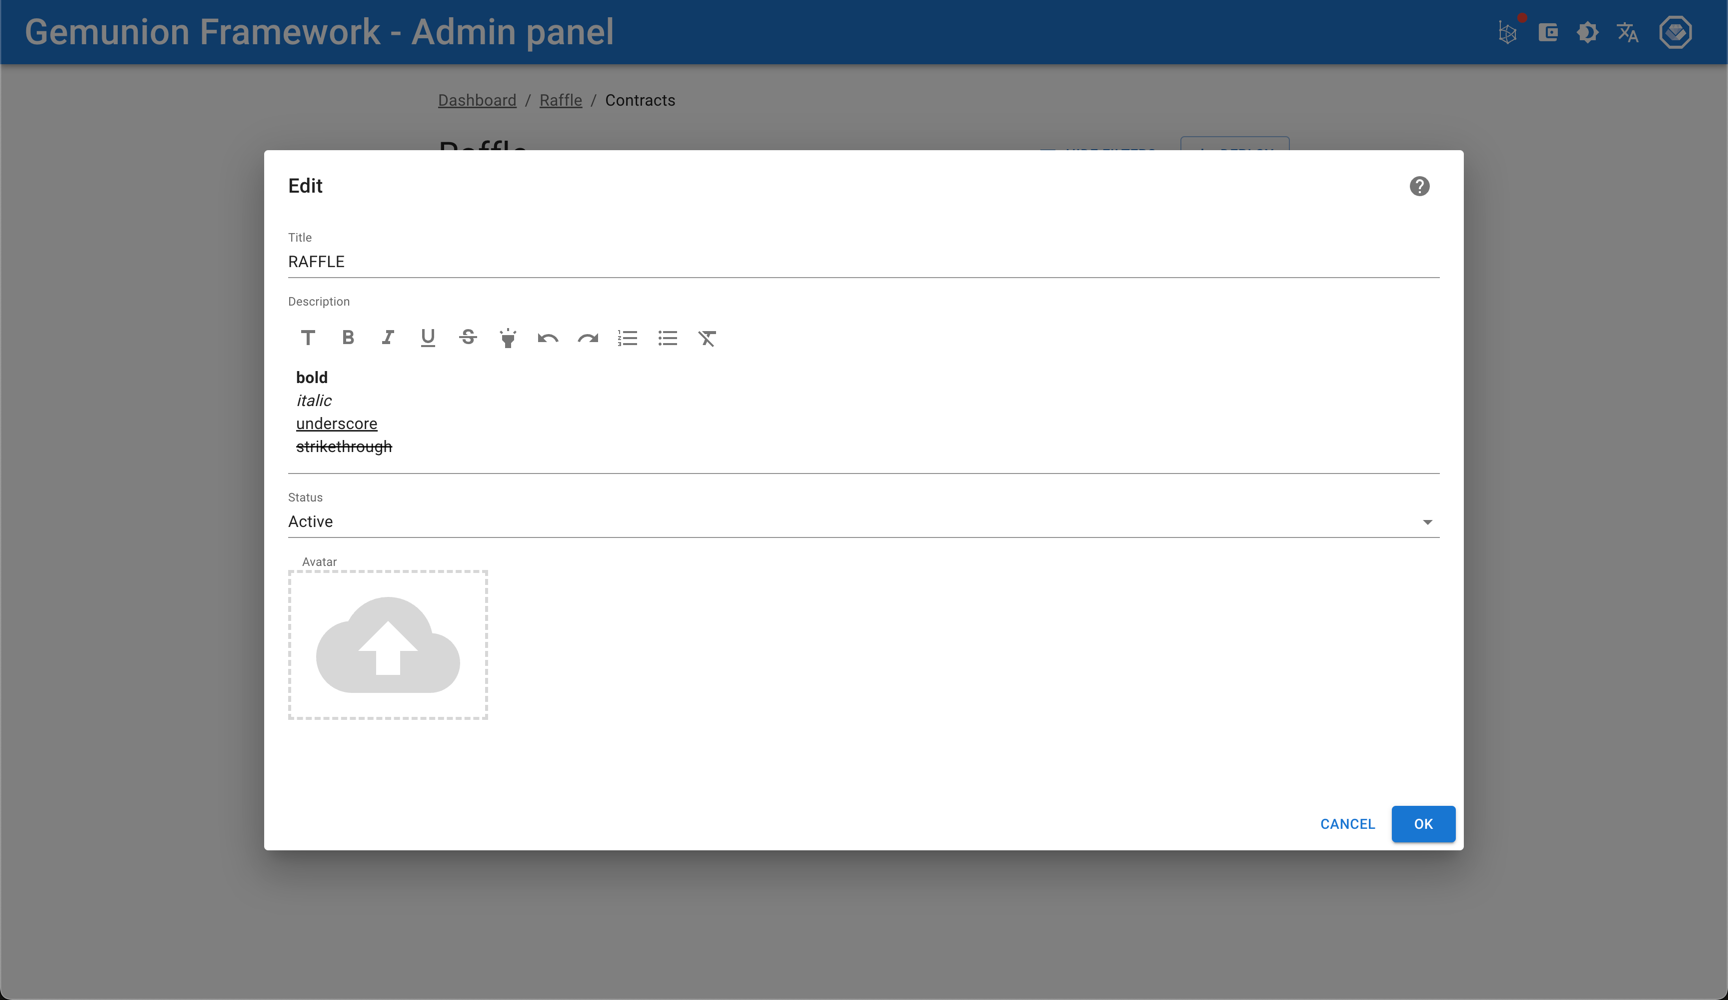
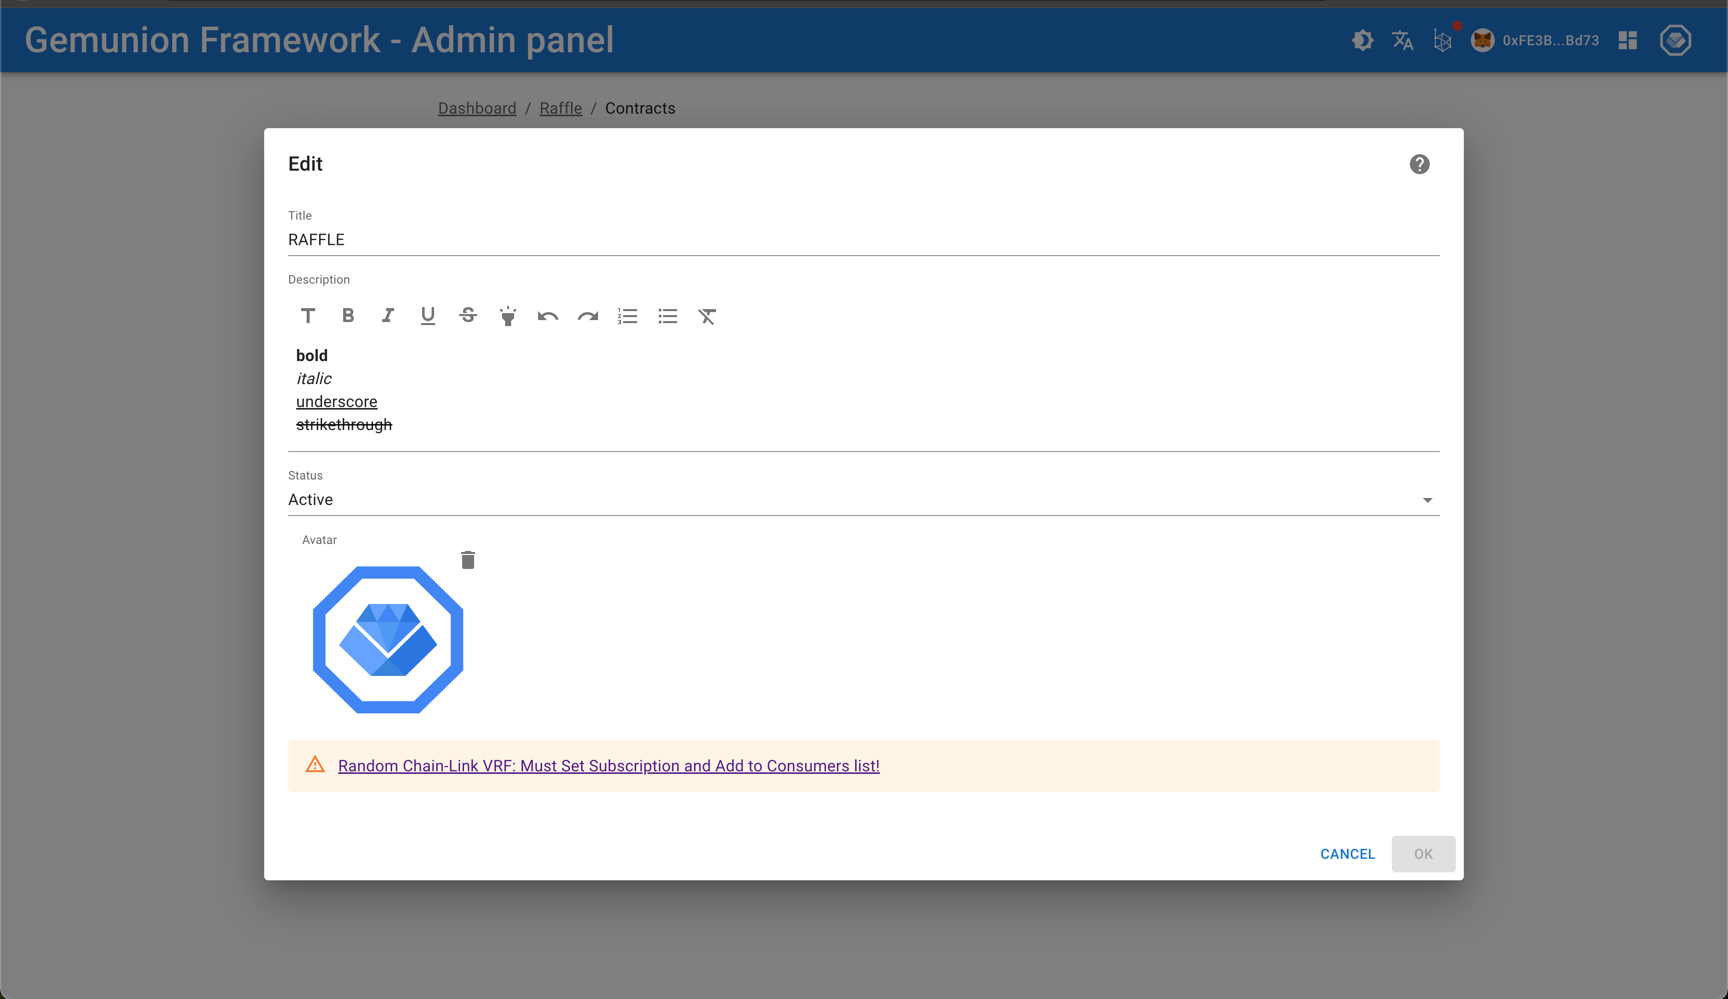
docs: update raffle

diff --git a/admin/mechanics-gambling/raffle/setup.md b/admin/mechanics-gambling/raffle/setup.md
@@ -16,45 +16,33 @@ Let's dive into each step:
 ### Deploy the Raffle Contract
 <!-- All our smart contracts that are deployed in our system is deployed via [Contract Manager Contract](https://). It help us to update our db according to smart contracts that deployed in project ecosystem. -->
   1. Go to **Dashboard > Raffle > Contract** and click the **Deploy button**. Confirm by clicking **OK**.
-      > Ensure you are connected to the correct blockchain network.
-      > ![](/img/admin/mechanics-gambling/raffle/deploy_raffle.png)
+      > ![](/img/admin/mechanics-gambling/raffle/contract_deploy_dialog.png)
   2. Wait for the transaction to process. Once displayed on the screen, you should see the contract name `Raffle` and three buttons (edit, delete, and actions).
-      > ![](/img/admin/mechanics-gambling/raffle/raffle_contract_edit.png)
+      > ![](/img/admin/mechanics-gambling/raffle/contract_search.png)
   3. Click the **Edit Button**, change the contract **status** to `Active`, and optionally update the title and description. <br/>Click **OK** when done.
       <!-- > Keep in Mind, that we still need to connect ChainLink to Raffle to make it work -->
-      > ![](/img/admin/mechanics-gambling/raffle/raffle_contract_edit_modal.png)
-
+      > ![](/img/admin/mechanics-gambling/raffle/contract_edit_dialog.png)
 ### Deploy the Ticket (ERC721) Contract and Grant MINTER_ROLE to Raffle
-  1. Go to **Dashboard > ERC721 > Contracts** and click the **Deploy Button**. Choose the `Raffle Ticket` **template** and fill other required fields. More details can be found [here](https://).
-      1. 
+  1. Go to **Dashboard > Raffle > Ticket** and click the **Deploy Button**.
       > You can also connect your own ticket with **Create Button** (if contract already deployed), but we don't recomend to do that because each ticket token suppose to be tasted and have to include several functions like **mintTicket**, **getTicketData** and **setPrize**.
-      > ![](/img/admin/mechanics-gambling/raffle/raffle_ticket_deploy.png)
+      > ![](/img/admin/mechanics-gambling/raffle/ticket_deploy_dialog.png)
   2. **Grant `MINTER_ROLE` to Raffle Contract**
       > Without this permission, the **Raffle** contract would not be able to mint any tokens from **Ticket** contract.
       1. Go to Dashboard > Raffle > Tickets and find the created ticket Gemunion Raffle Ticket.
-      1. Go to **Dashboard > Raffle > Tickets** and find the created ticket `Gemunion Raffle Ticket`
-      2. Click `•••` **[action button](https://)** and click **Grant Role**
-      3. Choose `MINTER_ROLE` in the **Role** field and search for `Raffle` or enter its `address` in the **Address** field. 
-          > Search for **Raffle Contract Title** not for ~~Raffle Ticket Title~~
-      4. And click **OK** Button
-      > ![](/img/admin/mechanics-gambling/raffle/raffle_ticket_grantRole.png)
-
-### Configure ChainLink
-For detailed instructions on setting up ChainLink, refer to this [page](https://).
-
-Steps to connect ChainLink:
-1. **Create a Subscription** (if not already created).
-2. Add the **Raffle Contract** as a **Consumer** to the **subscription**
-3. **Fund the Subscription** (if the balance is insufficient).
-4. **Set `subscriptionId` in Refferal Contract**:
-    1. Go to **Dashboard > Raffle > Contracts**, click the `•••` **[action button](https://)** and select `Set Vrf subscriptionId`
-    2. Choose the appropriate **Vrf Subscription Id** and click `OK`.
-    > ![](/img/admin/mechanics-gambling/raffle/raffle_contract_vrf.png)
-
+      2. Go to **Dashboard > Raffle > Tickets** and find the created ticket `Gemunion Raffle Ticket`
+      3. Click `•••` **[action button](https://)** and click **Grant Role**
+      4. Choose `MINTER_ROLE` in the **Role** field and search for `Raffle` or enter its `address` in the **Address** field. 
+      5. Search for **Raffle Contract Title** not for ~~Raffle Ticket Title~~
+      6. And click **OK** Button
+      > ![](/img/admin/mechanics-gambling/raffle/ticket_grant_role_dialog.png)
+     
 ### Grant MINTER_ROLE to Exchange Contract
 The **Exchange contract** is used for selling tickets, so it needs the `MINTER_ROLE` from the **Raffle Contract** to mint and sell tickets.
 1. Go to **Dashborad > Raffle > Contract**, click the `•••` **[action button](https://)** and select `Grant Role`
 2. Choose `MINTER_ROLE` in the **Role** field
 3. Search for `Exchange` in the **Address** field. Select the contract on the same network as the Raffle contract. 
 4. Click **Ok**.
-    > ![](/img/admin/mechanics-gambling/raffle/raffle_grantrole_exchange.png)
+    > ![](/img/admin/mechanics-gambling/raffle/contract_grant_role_dialog.png)
+   
+### Configure ChainLink
+For detailed instructions on setting up ChainLink, refer to this [page](/admin/integrations/chain-link/).

diff --git a/admin/integrations/chain-link.md b/admin/integrations/chain-link.md
@@ -9,6 +9,24 @@ sidebar_position: 6
 
 Smart contract can't get any information from off-chain by itself thus required information must be passed to it from
 off-chain by executing transaction. This is what ChainLink does. One of the data type which they can pass to blockchain
-is randomness. We use it to generate rarity parameter at token mint time.
+is random number. We use it in different mechanics
+like [Mystery Boxes](/admin/mechanics-marketing/mystery/), [Lottery](/admin/integrations/lottery/)
+and [Raffle](/admin/integrations/raffle/).
 
 More information about how it works can be found [here](https://docs.chain.link/docs/chainlink-vrf/)
+
+
+## Steps to connect ChainLink:
+1. **Go to ChainLink dashboard**.
+   > ![](/img/admin/integrations/chain-link/chainlink_subscription_list.png)
+1. **Create a Subscription**.
+   > ![](/img/admin/integrations/chain-link/chainlink_subscription_create.png)
+2. **Add the Contract as a Consumer to the Subscription**
+   > ![](/img/admin/integrations/chain-link/chainlink_subscription_add_consumer.png)
+3. **Fund the Subscription**
+   > ![](/img/admin/integrations/chain-link/chainlink_subscription_fund.png)
+4. **Set `subscriptionId` in Contract**:
+    1. Go to **Contracts list**, click the `•••` and select `Set VRF subscriptionId`
+   > ![](/img/admin/integrations/chain-link/contract_menu.png)
+    2. Choose the appropriate **VRF Subscription Id** and click `OK`.
+   > ![](/img/admin/integrations/chain-link/contract_subscription_id.png)
